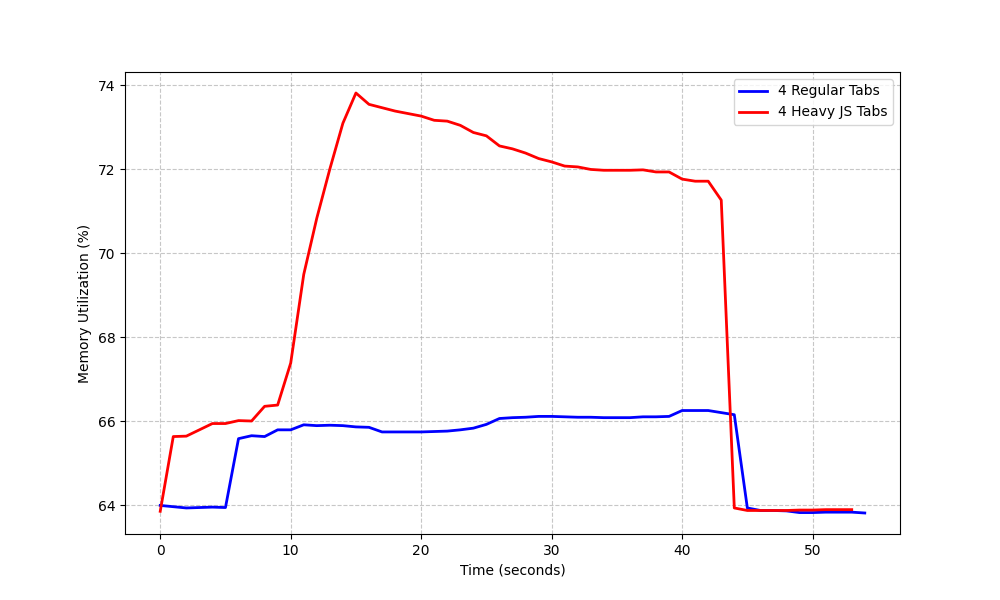
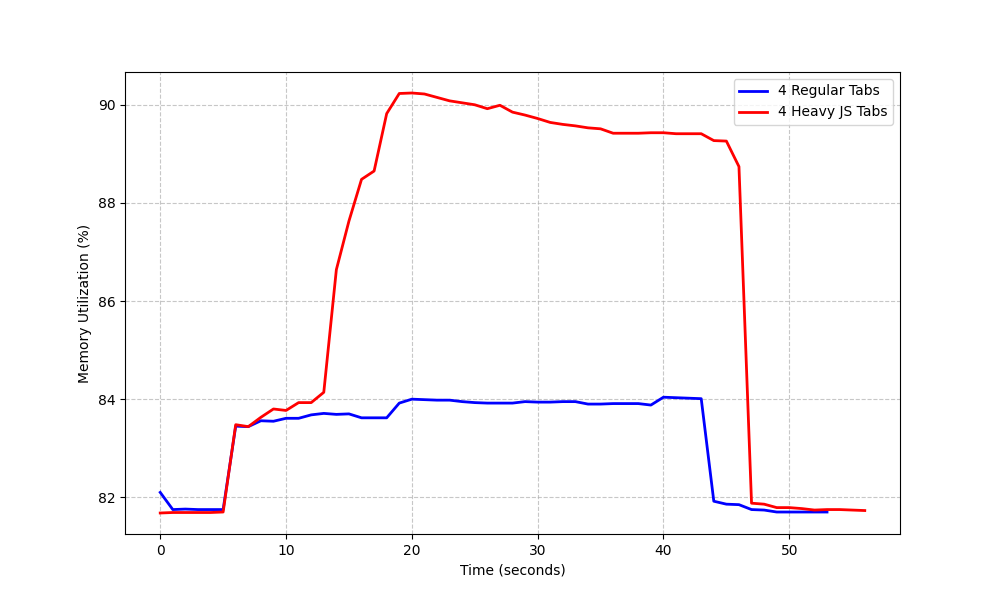
fix bugs with orphaned processes and corrupted csvs

diff --git a/syscall_userspace/main.c b/syscall_userspace/main.c
@@ -1,15 +1,21 @@
+#include <signal.h>
 #include <stdio.h>
 #include <sys/syscall.h>
 #include <time.h>
 #include <unistd.h>
 
-#define CSV_FILE "utilization.csv"
+volatile sig_atomic_t keep_running = 1;
+
+void handle_signal(int sig) { keep_running = 0; }
 
 int main(int argc, char *argv[]) {
   if (argc != 2) {
-    perror("Usage: ./main path/to/file");
+    fprintf(stderr, "Usage: %s path/to/file\n", argv[0]);
     return 1;
   }
+
+  signal(SIGTERM, handle_signal);
+  signal(SIGINT, handle_signal);
 
   FILE *fp = fopen(argv[1], "w");
 
@@ -21,7 +27,7 @@ int main(int argc, char *argv[]) {
   fprintf(fp, "time,utilization\n");
   fflush(fp);
 
-  for (;;) {
+  while (keep_running) {
     long result = syscall(491);
 
     if (result < 0) {
@@ -44,6 +50,8 @@ int main(int argc, char *argv[]) {
     sleep(1);
   }
 
+  printf("Shutting down cleanly...\n");
   fclose(fp);
+
   return 0;
 }